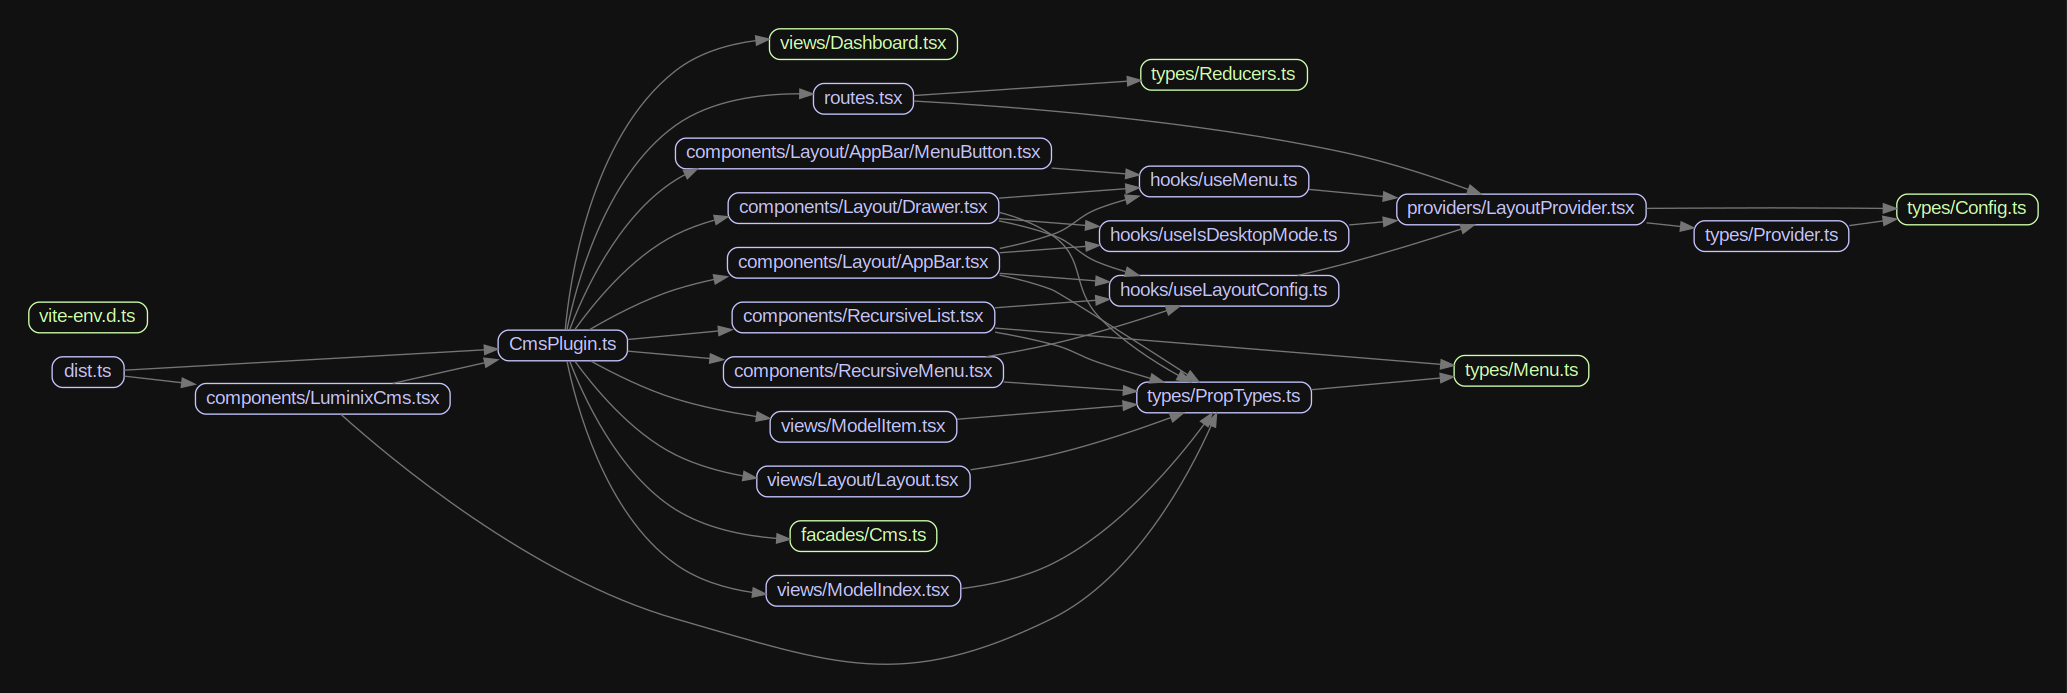
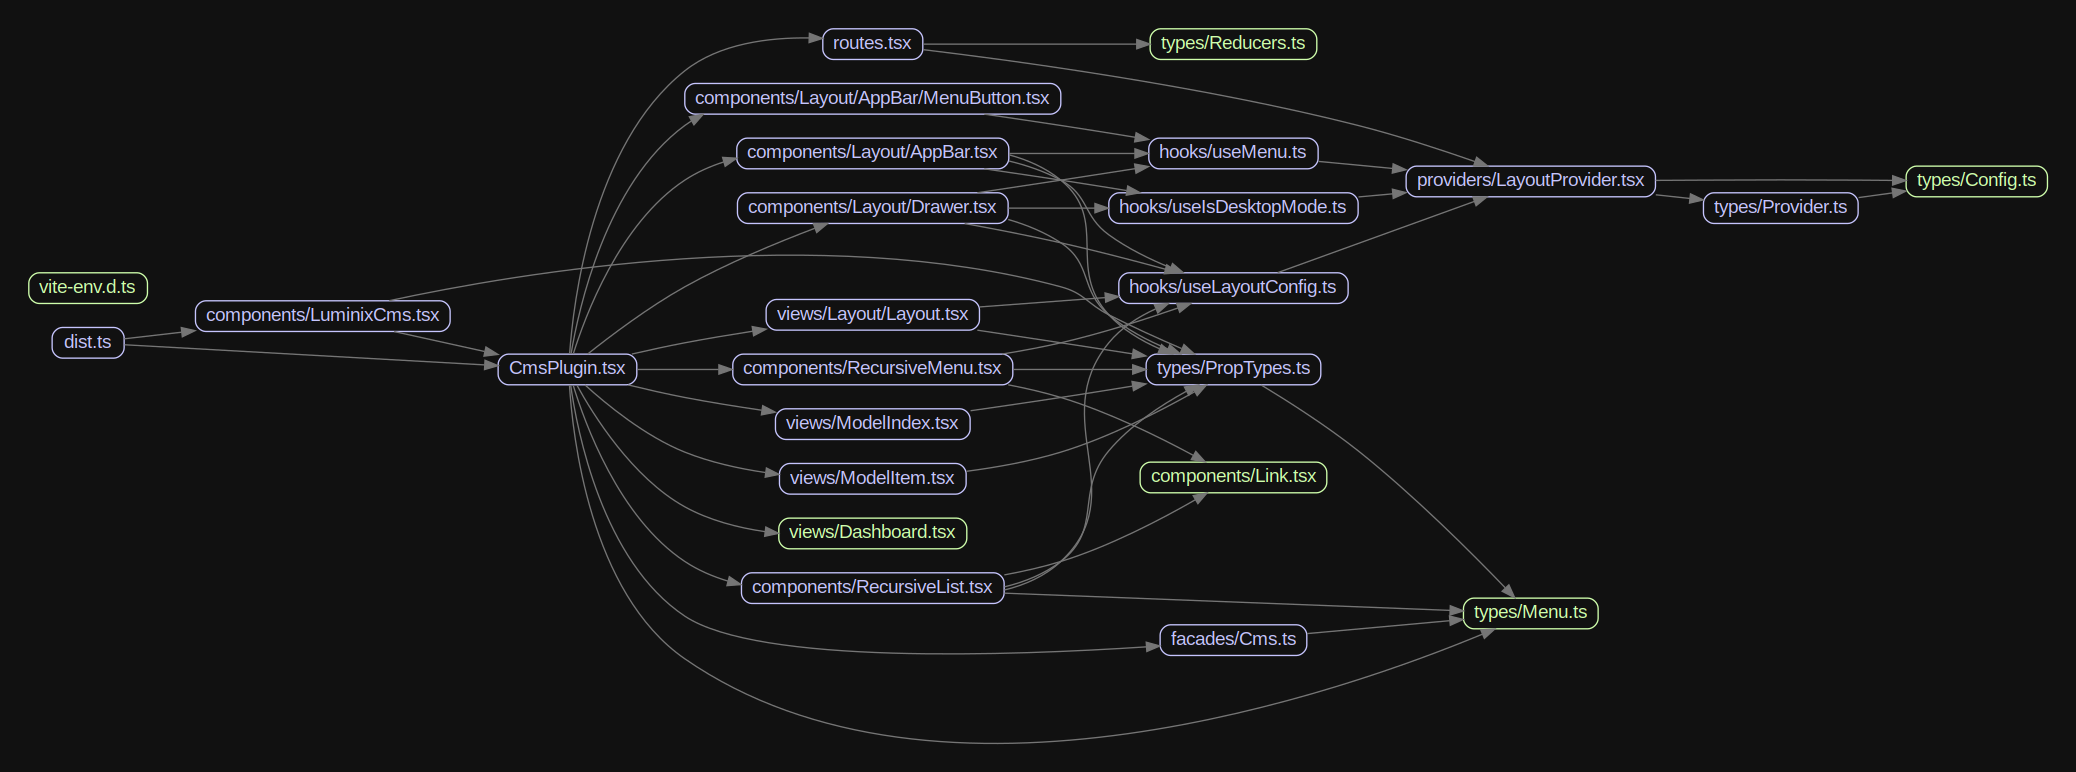
Adiciona propriedade opcional 'error' em ErrorProps Adiciona propriedade 'showSearch' em LayoutProviderValue Adiciona componente SearchBar em CmsPlugin Adiciona elemento de erro em routes Adiciona hook useSearch em ModelIndex Refatora componente DesktopPageTitle Atualiza LayoutProvider com proprieda

diff --git a/src/components/Layout/SearchBar.tsx b/src/components/Layout/SearchBar.tsx
@@ -1,0 +1,84 @@
+import React from 'react';
+
+import TextField from '@mui/material/TextField';
+import IconButton from '@mui/material/IconButton';
+import Collapse from '@mui/material/Collapse';
+
+import SearchIcon from '@mui/icons-material/Search';
+
+import { useSearchParams } from 'react-router-dom';
+
+import { styled } from '@mui/material/styles';
+import useIsDesktopMode from '../../hooks/useIsDesktopMode';
+
+
+const SearchField = styled(TextField)({
+    '& .MuiInputBase-root': {
+        backgroundColor: 'white',
+    },
+    // transition: 'width 250ms ease-in-out',
+});
+
+
+const SearchBar: React.FunctionComponent = () => {
+
+    const [searchParams, setSearchParams] = useSearchParams();
+    const [focus, setFocus] = React.useState(false);
+    const inputRef = React.useRef<HTMLInputElement | null>(null);
+
+    const handleChange: React.ChangeEventHandler<HTMLInputElement | HTMLTextAreaElement> = (e) => setSearchParams((params) => {
+        const newParams = new URLSearchParams(params);
+
+        if (e.target.value) {
+            newParams.set('q', e.target.value);
+        } else {
+            newParams.delete('q');
+        }
+
+        return newParams;
+    });
+
+    const isDesktop = useIsDesktopMode();
+
+    const width = isDesktop
+        ? 300
+        : 'calc(100vw - 58px)';
+
+    return (
+        <>
+            {!isDesktop && !focus && (
+                <IconButton color="inherit" onClick={() => setFocus(true)}>
+                    <SearchIcon  />
+                </IconButton>
+            )}
+            <Collapse
+                orientation="horizontal"
+                in={isDesktop || focus}
+                addEndListener={() => {
+                    if (!isDesktop && focus) {
+                        inputRef.current?.focus();
+                    }
+                }}
+                unmountOnExit={false}
+            >
+                <SearchField
+                    placeholder="Type to search..."
+                    value={searchParams.get('q') || ''} 
+                    InputProps={{
+                        endAdornment: <SearchIcon />,
+                    }}
+                    inputProps={{
+                        ref: inputRef,
+                    }}
+                    onChange={handleChange}
+                    onBlur={() => setFocus(false)}
+                    sx={{ width }}
+                    size="small"
+                />
+            </Collapse>
+        </>
+    );
+
+};
+
+export default SearchBar;

diff --git a/src/components/Layout/AppBar.tsx b/src/components/Layout/AppBar.tsx
@@ -14,6 +14,7 @@ import useMenu from '../../hooks/useMenu';
 import useLayoutConfig from '../../hooks/useLayoutConfig';
 import useIsDesktopMode from '../../hooks/useIsDesktopMode';
 import usePageTitle from '../../hooks/usePageTitle';
+import useHasSearch from '../../hooks/useHasSearch';
 
 
 const DesktopAppBar = styled(
@@ -50,9 +51,14 @@ const AppBar: React.FunctionComponent<AppBarProps> = ({ slots = {}, ...props }) 
         ? DesktopAppBar
         : MobileAppBar;
 
-    const MenuButton = app('cms').getComponent('Layout.AppBar.MenuButton');
+    const { 
+        ['Layout.AppBar.MenuButton']: MenuButton,
+        ['Layout.SearchBar']: SearchBar,
+    } = app('cms').getComponents();
 
     const { open } = useMenu();
+
+    const searching = useHasSearch();
 
     const height = useLayoutConfig('appBar.height') as number;
     const drawerWidth = useLayoutConfig('drawer.width', 280) as number;
@@ -85,6 +91,7 @@ const AppBar: React.FunctionComponent<AppBarProps> = ({ slots = {}, ...props }) 
                 </Typography>
                 <Box sx={{ flexGrow: 1 }} />
                 <Box sx={{ display: 'flex' }}>
+                    {searching && <SearchBar />}
                     {end}
                 </Box>
             </Toolbar>

diff --git a/src/providers/LayoutProvider.tsx b/src/providers/LayoutProvider.tsx
@@ -15,6 +15,8 @@ const DEFAULT_VALUE: LayoutProviderValue = {
     isBreakpointUp: false,
     currentPage: '',
     setCurrentPage: () => {},
+    showSearch: false,
+    setShowSearch: () => {},
 };
 
 export const LayoutContext = React.createContext(DEFAULT_VALUE); // exporta o context pra usar onde precisar
@@ -24,8 +26,8 @@ const originalTitle = document.title;
 const LayoutProvider: React.FunctionComponent = ({ children }) => {
      
     const [open, setOpen] = React.useState(DEFAULT_VALUE.open);
-
     const [currentPage, setCurrentPage] = React.useState('');
+    const [showSearch, setShowSearch] = React.useState(false);
 
     const layout = useConfig('luminix.cms.layout', {}) as CmsConfig['layout'];
 
@@ -33,7 +35,8 @@ const LayoutProvider: React.FunctionComponent = ({ children }) => {
 
     const value: LayoutProviderValue = {
         open, setOpen, layout, isBreakpointUp,
-        currentPage, setCurrentPage,
+        currentPage, setCurrentPage, showSearch,
+        setShowSearch,
     };
 
     React.useEffect(() => {

diff --git a/src/components/DesktopPageTitle.tsx b/src/components/DesktopPageTitle.tsx
@@ -2,25 +2,24 @@ import Paper from '@mui/material/Paper';
 
 import Typography from '@mui/material/Typography';
 
-
-import usePageTitle from "../hooks/usePageTitle";
+import usePageTitle from '../hooks/usePageTitle';
 import useLayoutConfig from '../hooks/useLayoutConfig';
 
 const DesktopPageTitle: React.FunctionComponent = () => {
 
     const pageTitle = usePageTitle();
 
-    const breakpoint = useLayoutConfig('layout.breakpoint', 'md') as string;
+    const breakpoint = useLayoutConfig('breakpoint', 'md') as string;
 
     return (
         <Paper 
             sx={{ 
                 display: { xs: 'none', [breakpoint]: 'block' },
-                boxShadow: (theme) => theme.shadows[1],
+                boxShadow: (theme) => theme.shadows[3],
                 py: 4,
                 px: 3,
-                borderRadius: '0 0 15px 0',
-                
+                borderRadius: 0,
+
             }}
         >
             <Typography variant="h4" noWrap>

diff --git a/src/views/ModelIndex.tsx b/src/views/ModelIndex.tsx
@@ -4,21 +4,26 @@ import { useBrowsableQuery } from '@luminix/react';
 import { app, log } from '@luminix/core';
 import ModelIndexSkeleton from './ModelIndex.skeleton';
 import useSetPageTitle from '../hooks/useSetPageTitle';
+import useSearch from '../hooks/useSearch';
 
 const ModelIndex: React.FunctionComponent<ModelComponentProps> = ({ Model }) => {
 
-    const query = React.useMemo(() => Model.query(), [Model]);
+    const query = React.useMemo(() => {
+        const query = Model.query();
+        log().info('ModelIndex: query', { Model, query });
+        return query;
+    }, [Model]);
 
     const {
         data: items,
         loading,
         error,
-        ...paginator
+        // links,
     } = useBrowsableQuery(query);
 
-    log(paginator);
-
     useSetPageTitle(Model.plural());
+
+    useSearch();
 
     const { Error, DesktopPageTitle } = app('cms').getComponents();
 

diff --git a/src/routes.tsx b/src/routes.tsx
@@ -6,7 +6,7 @@ import CssBaseline from '@mui/material/CssBaseline';
 import { CmsRoutesReducer } from "./types/Reducers";
 import LayoutProvider from "./providers/LayoutProvider";
 
-const routes: CmsRoutesReducer = (__, { Layout, Dashboard, ModelIndex, ModelItem }, models) => [
+const routes: CmsRoutesReducer = (__, { Layout, Dashboard, ModelIndex, ModelItem, Error }, models) => [
     {
         element: (
             <LayoutProvider>
@@ -15,6 +15,9 @@ const routes: CmsRoutesReducer = (__, { Layout, Dashboard, ModelIndex, ModelItem
                     <Outlet />
                 </Layout>
             </LayoutProvider>
+        ),
+        errorElement: (
+            <Error />
         ),
         children: [
             {

diff --git a/src/CmsPlugin.tsx b/src/CmsPlugin.tsx
@@ -22,6 +22,7 @@ import _ from 'lodash';
 import { MenuItem } from './types/Menu';
 import Error from './views/Error';
 import DesktopPageTitle from './components/DesktopPageTitle';
+import SearchBar from './components/Layout/SearchBar';
 
 let app: AppFacade;
 
@@ -65,13 +66,14 @@ class CmsPlugin extends Plugin {
 
             Error,
 
+            DesktopPageTitle,
             RecursiveList,
             RecursiveMenu,
-            DesktopPageTitle,
-
+            
             'Layout.AppBar': AppBar,
             'Layout.Drawer': Drawer,
             'Layout.AppBar.MenuButton': MenuButton,
+            'Layout.SearchBar': SearchBar,
             
             
         }), 0);

diff --git a/src/hooks/useSearch.ts b/src/hooks/useSearch.ts
@@ -1,0 +1,16 @@
+import React from 'react';
+import { LayoutContext } from '../providers/LayoutProvider';
+
+export default function useSearch() {
+    const { setShowSearch } = React.useContext(LayoutContext);
+
+    React.useEffect(() => {
+        setShowSearch(true);
+
+        return () => {
+            setShowSearch(false);
+        };
+    }, [setShowSearch]);
+
+
+}

diff --git a/src/views/Error.tsx b/src/views/Error.tsx
@@ -8,7 +8,7 @@ const Error: React.FunctionComponent<ErrorProps> = ({ error }) => {
         <div>
             <h1>Error</h1>
             <p>Something went wrong</p>
-            {config('app.debug') && (
+            {config('app.debug') && error && (
                 <>
                     <pre style={{ whiteSpace: 'pre-wrap' }}>
                         {error.message}

diff --git a/src/types/Provider.ts b/src/types/Provider.ts
@@ -8,6 +8,8 @@ export type LayoutProviderValue = {
     isBreakpointUp: boolean,
     currentPage: string,
     setCurrentPage: Dispatch<SetStateAction<string>>,
+    showSearch: boolean,
+    setShowSearch: Dispatch<SetStateAction<boolean>>,
 };
 
 

diff --git a/src/hooks/useHasSearch.ts b/src/hooks/useHasSearch.ts
@@ -1,0 +1,10 @@
+import React from 'react';
+
+import { LayoutContext } from '../providers/LayoutProvider';
+
+export default function useHasSearch() {
+    const { showSearch } = React.useContext(LayoutContext);
+    
+    return showSearch;
+}
+

diff --git a/src/types/PropTypes.ts b/src/types/PropTypes.ts
@@ -39,7 +39,7 @@ export type StyledDrawerProps = MuiDrawerProps & {
 };
 
 export type ErrorProps = {
-    error: Error,
+    error?: Error,
 };
 
 export type RecursiveListProps = DefaultComponentProps<ListTypeMap> & {
